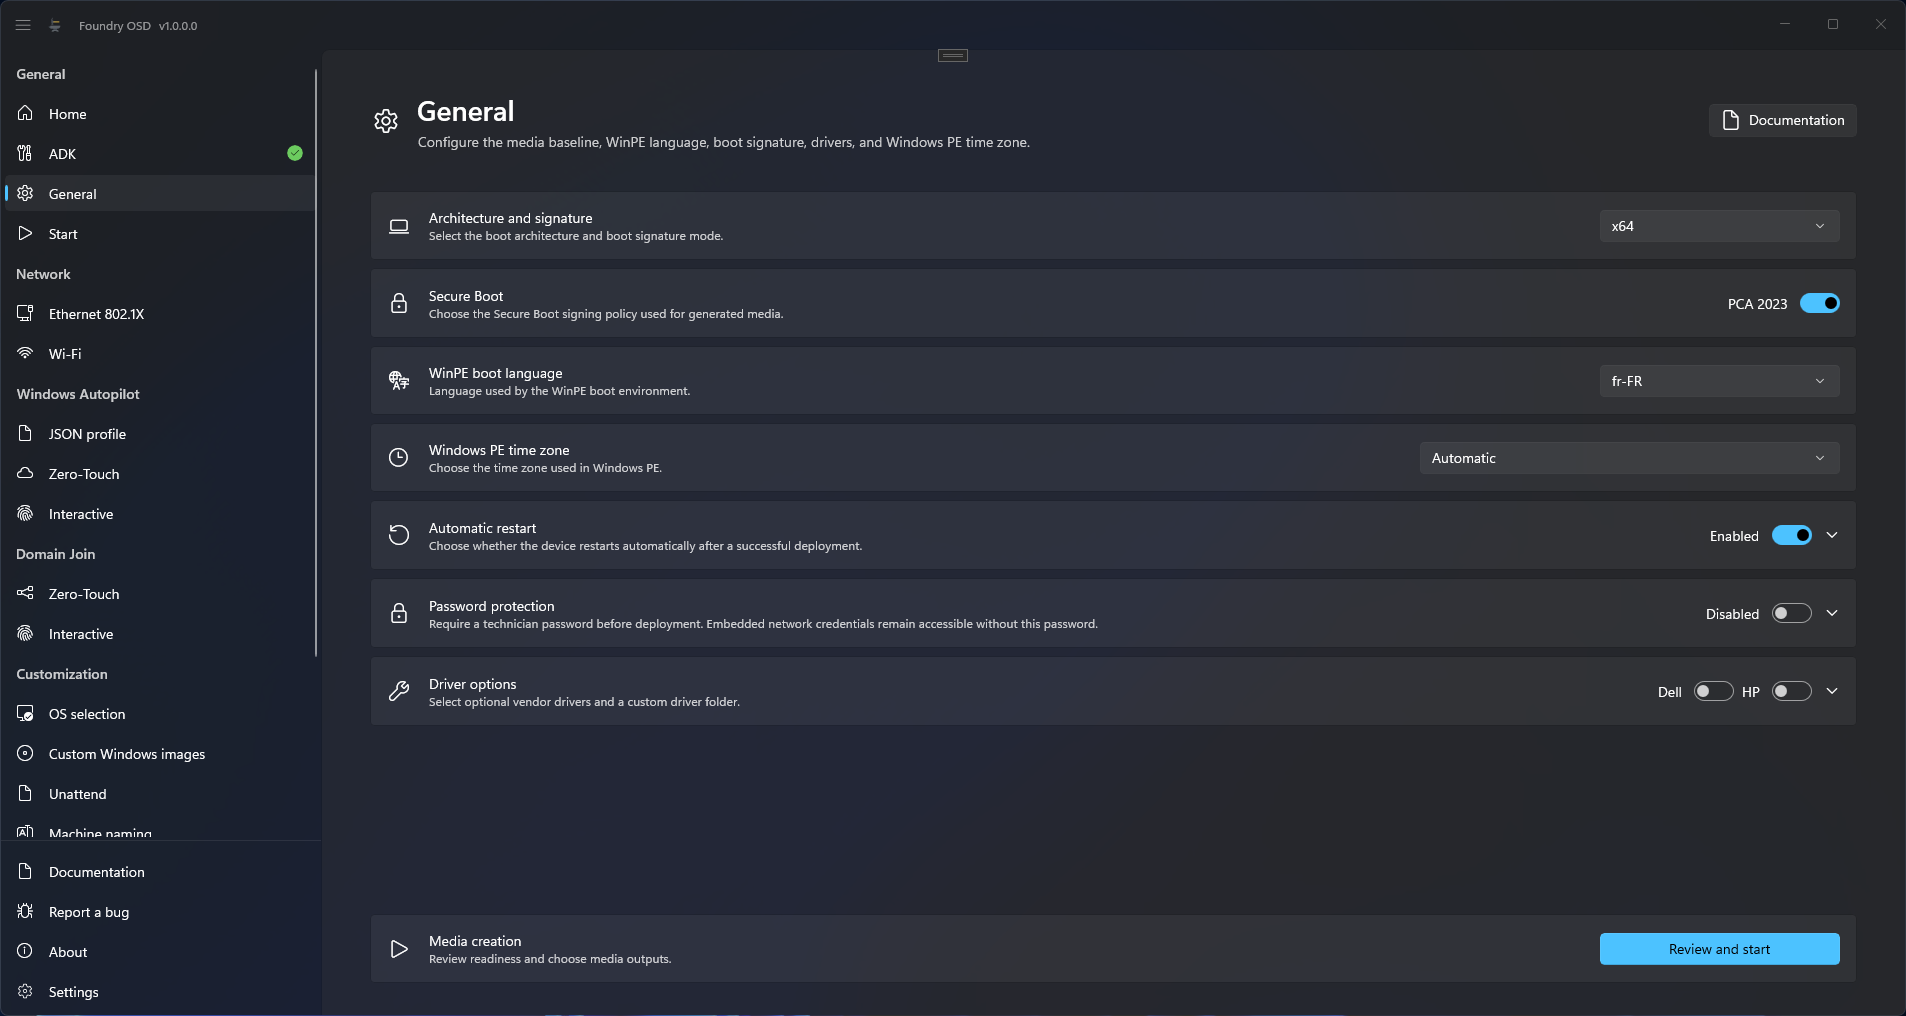
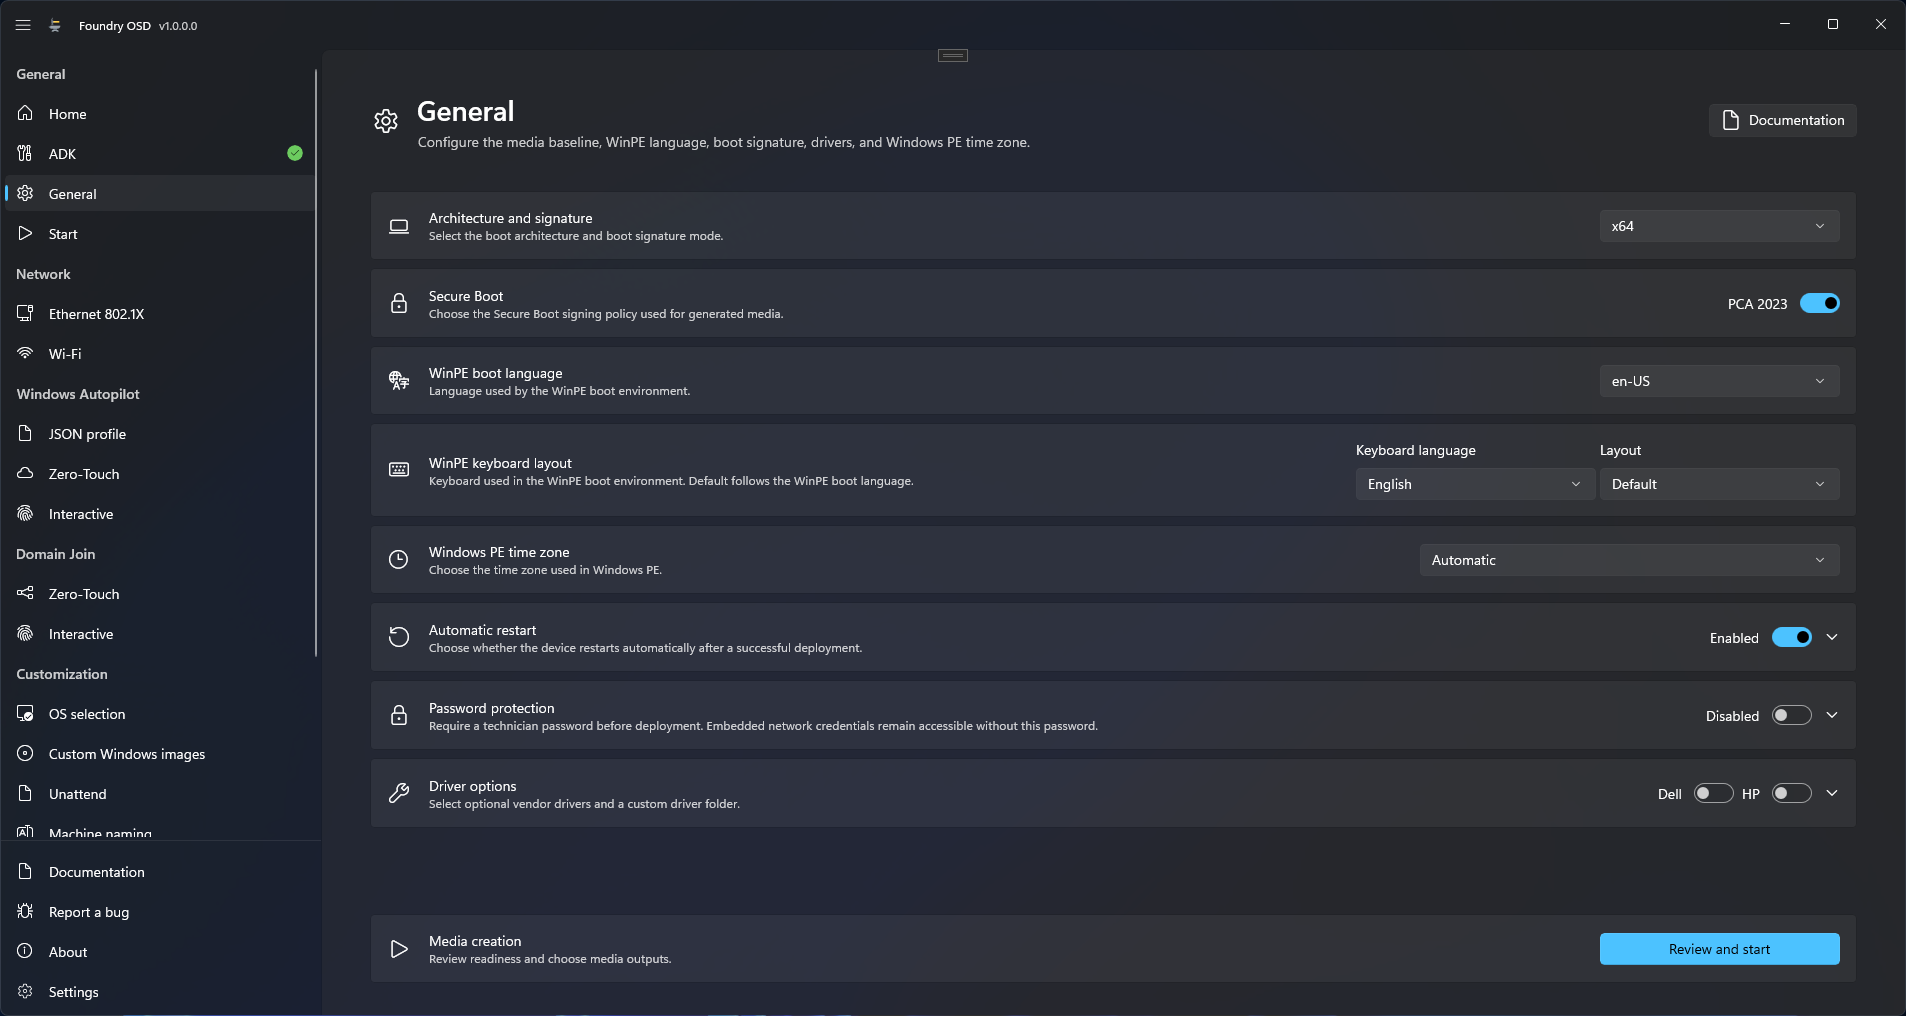
docs(winpe): document WinPE keyboard selection and Open log file in Connect (#53)

diff --git a/foundry-osd/general.md b/foundry-osd/general.md
@@ -1,9 +1,9 @@
 # General
 
-The General page sets the options every deployment media needs: processor architecture, boot signature, Windows PE language and time zone, what happens when a deployment ends, an optional password, and extra drivers for Windows PE. The defaults suit a first test; open the page at least once before you create media.
+The General page sets the options every deployment media needs: processor architecture, boot signature, Windows PE language, keyboard and time zone, what happens when a deployment ends, an optional password, and extra drivers for Windows PE. The defaults suit a first test; open the page at least once before you create media.
 
 <figure>
-  <img src="../.gitbook/assets/foundry-osd-general-01-overview.png" alt="General page with Architecture and signature, Secure Boot, WinPE boot language, Windows PE time zone on Automatic, Automatic restart, Password protection and Driver options, and the Media creation card">
+  <img src="../.gitbook/assets/foundry-osd-general-01-overview.png" alt="General page with Architecture and signature, Secure Boot, WinPE boot language, WinPE keyboard layout on English and Default, Windows PE time zone on Automatic, Automatic restart, Password protection and Driver options, and the Media creation card">
   <figcaption>The cards of the page in order. <strong>Review and start</strong> opens the Start page.</figcaption>
 </figure>
 
@@ -22,6 +22,7 @@ The [ADK](adk.md) page must report **ADK is ready**. Until then **General** cann
 | **Architecture and signature** | Processor architecture of the media: `x64` or `arm64`. It must match the target devices. | `x64` |
 | **Secure Boot** | Certificate that signs the boot files: **PCA 2023** when on, **PCA 2011** when off. | **PCA 2023** |
 | **WinPE boot language** | Language of Windows PE, among the language packs installed with the Windows PE add-on. | Keeps your earlier choice. On first use: the language of Foundry OSD when its pack is installed, otherwise the first one available |
+| **WinPE keyboard layout** | Keyboard of Windows PE: a keyboard language, then a layout of that language. See below. | **Default**, the keyboard of the WinPE boot language |
 | **Windows PE time zone** | Time zone used in Windows PE. See below. | **Automatic** |
 | **Automatic restart** | Restarts the device after a successful deployment. | On |
 | **Restart delay** | Seconds before that restart, from 0 to 3600. 0 restarts at once. | 10 |
@@ -32,6 +33,16 @@ The [ADK](adk.md) page must report **ADK is ready**. Until then **General** cann
 ### Secure Boot
 
 Keep **PCA 2023** unless you have a reason to change it. Foundry does not check the firmware of your devices: whether a device accepts media signed with the 2023 certificate depends on its firmware, as described in Microsoft's [Secure Boot certificate guidance](https://aka.ms/getsecureboot). If a target device with Secure Boot turned on does not start the media, creating the media again with **PCA 2011** is a test worth making.
+
+### WinPE keyboard layout
+
+The keyboard does not have to match the WinPE boot language. Keep an English Windows PE and type with a Belgian keyboard, for example: select the keyboard language, here **Dutch** or **French**, then the layout, here **Belgian (Period)** or **Belgian French**.
+
+The first list offers every language that has a layout on this computer. The second list shows the layouts of that language. **Default** appears only for the language of the WinPE boot language, and keeps the keyboard that comes with it. Language names follow the language of Foundry OSD; layout names come from Windows, in its display language.
+
+The layout is set for the whole media. A technician who works on another keyboard can switch it in Windows PE from the **Keyboard** menu of [Foundry Connect](../foundry-connect/README.md#menus) or [Foundry Deploy](../foundry-deploy/README.md#menu-bar). This option affects Windows PE only: Windows still asks for the keyboard during its first start.
+
+A profile from another computer can carry a layout that is not installed here. The card then shows "The selected WinPE keyboard layout is not installed on this computer." and media creation is blocked until you choose a layout or **Default**.
 
 ### Windows PE time zone
 

diff --git a/troubleshooting/media-creation.md b/troubleshooting/media-creation.md
@@ -20,6 +20,7 @@ Otherwise, find the message below.
 | **Create ISO** or **Create USB** cannot be selected, or a dialog lists reasons | [The button stays unavailable](#button-unavailable) |
 | A dialog offering **Create anyway** | [Update Foundry OSD](#update-advisory) |
 | "Not enough disk space to create the boot image..." | [Not enough disk space](#not-enough-disk-space) |
+| "The selected WinPE keyboard layout is not installed on this computer.", "...is not available in the boot image." | [The keyboard layout is missing](#keyboard-layout-missing) |
 | "WinPE servicing is blocked..." | [Image cleanup not confirmed](#servicing-blocked) |
 | "Windows blocked access to the WinPE image files...", "Failed to mount boot.wim." | [Image files are locked](#access-blocked) |
 | "Failed to create WinPE workspace using copype.cmd.", a component "was not found", "PCA2023 requires..." | [The ADK lacks a component](#adk-component) |
@@ -57,6 +58,16 @@ If something changes between your click and the start, a dialog titled **ISO cre
 **Fix:** Select **Apply update**, or **View update** while the update is not ready, then create the media with the new version. **Create anyway** uses the current version.
 
 **Collect:** Nothing.
+
+## "The selected WinPE keyboard layout is not installed on this computer." <a href="#keyboard-layout-missing" id="keyboard-layout-missing"></a>
+
+**Where:** **Start**, on the **WinPE boot language** row marked **Needs attention**, in the **ISO creation is blocked** or **USB creation is blocked** dialog, and under the **WinPE keyboard layout** card of **General**. A second form, "The selected WinPE keyboard layout is not available in the boot image.", appears in the **Operation complete** dialog with the layout and its file.
+
+**Cause:** The first form: the layout was chosen on another computer, then the profile was imported here, and this computer does not have it. The second form: the Windows PE image for this architecture does not contain the file of that layout.
+
+**Fix:** On **General**, in the **WinPE keyboard layout** card, choose a layout available here, or **Default**. For the second form, choose another layout of the same language, or **Default**.
+
+**Collect:** `Foundry.log`, line "Media preflight summary refreshed", which names the layout.
 
 ## "Not enough disk space to create the boot image." <a href="#not-enough-disk-space" id="not-enough-disk-space"></a>
 

diff --git a/troubleshooting/logs-and-support.md b/troubleshooting/logs-and-support.md
@@ -21,7 +21,7 @@ There is no folder to choose in Windows PE. Foundry writes the archive to the ro
 
 | Menu item | Application | What it does |
 | --- | --- | --- |
-| **Open log file** | Foundry Deploy | Opens the current log in Notepad. Also available in the **Error details** window |
+| **Open log file** | Both | Opens the current log in Notepad. In Foundry Deploy, also available in the **Error details** window |
 | **Refresh status** | Foundry Connect | Checks the network again. It does not export anything |
 | **Export diagnostics...** | Both | Creates an archive in which the secrets Foundry recognizes are masked |
 | **Export raw diagnostics...** | Both | Creates the same archive without masking, after a confirmation |
@@ -41,7 +41,7 @@ Use **Export raw diagnostics...** only when a support contact you trust asks for
 1. Insert a USB flash drive with free space and wait a few seconds.
 2. Select **Tools > Export diagnostics...** again.
 
-**Collect:** if the export still fails, use **Tools > Open log file** in Foundry Deploy and photograph the last lines.
+**Collect:** if the export still fails, use **Tools > Open log file** and photograph the last lines.
 
 ## Log locations
 

diff --git a/foundry-connect/README.md b/foundry-connect/README.md
@@ -24,7 +24,9 @@ Do not close Foundry Connect to get past it. Closing the window cancels the star
 | Menu | Use it to |
 | --- | --- |
 | **Theme**, **Language** | Change the appearance or the display language of Foundry Connect. |
+| **Keyboard** | Change the keyboard layout of Windows PE, for example before typing a Wi-Fi password. The menu name shows the active layout. It lists the layouts of the same language first, and every other language under **Other languages**. Foundry Deploy keeps the layout chosen here. |
 | **Tools > Refresh status** | Check the network now instead of waiting for the next automatic check. Foundry Connect checks every 10 seconds. |
+| **Tools > Open log file** | Read the Foundry Connect log in Notepad. |
 | **Tools > Export diagnostics...** | Save the logs to the USB drive for support. See [Export logs from Foundry Connect and Foundry Deploy](../troubleshooting/logs-and-support.md#export-logs-from-foundry-connect-and-foundry-deploy). |
 | **Tools > Export raw diagnostics...** | Save unfiltered logs, which can contain credentials and network names. Use it only when a support contact you trust asks for it. |
 

diff --git a/troubleshooting/deployment/before-deployment-starts.md b/troubleshooting/deployment/before-deployment-starts.md
@@ -27,7 +27,7 @@ Problems met when Foundry Deploy opens and in its wizard, up to the **Deploy** b
 
 **Fix:**
 
-1. Show the password with the show-or-hide button and check each character: the keyboard layout of Windows PE can differ from the one printed on your keyboard.
+1. Show the password with the show-or-hide button and check each character: the keyboard layout of Windows PE can differ from the one printed on your keyboard. Next time, select your layout in the **Keyboard** menu of Foundry Connect before Foundry Deploy opens, or ask the administrator to set the [WinPE keyboard layout](../../foundry-osd/general.md#winpe-keyboard-layout) of the media.
 2. Ask the administrator for the password of this media. A password cannot be recovered from the media.
 3. If the password is lost, the administrator recreates the media. See [Password protection](../../foundry-osd/general.md#password-protection).
 

diff --git a/foundry-deploy/README.md b/foundry-deploy/README.md
@@ -49,6 +49,7 @@ The menu bar stays available on every screen, including the error screen.
 | --- | --- |
 | **Theme** | Switch between **System**, **Light** and **Dark** |
 | **Language** | Change the display language of Foundry Deploy |
+| **Keyboard** | Change the keyboard layout of Windows PE. It opens on the layout chosen in Foundry Connect, or the one set for the media |
 | **Tools** | Open or export the logs: **Open log file**, **Export diagnostics...**, **Export raw diagnostics...** |
 | **About** | Read the Foundry Deploy version |
 
